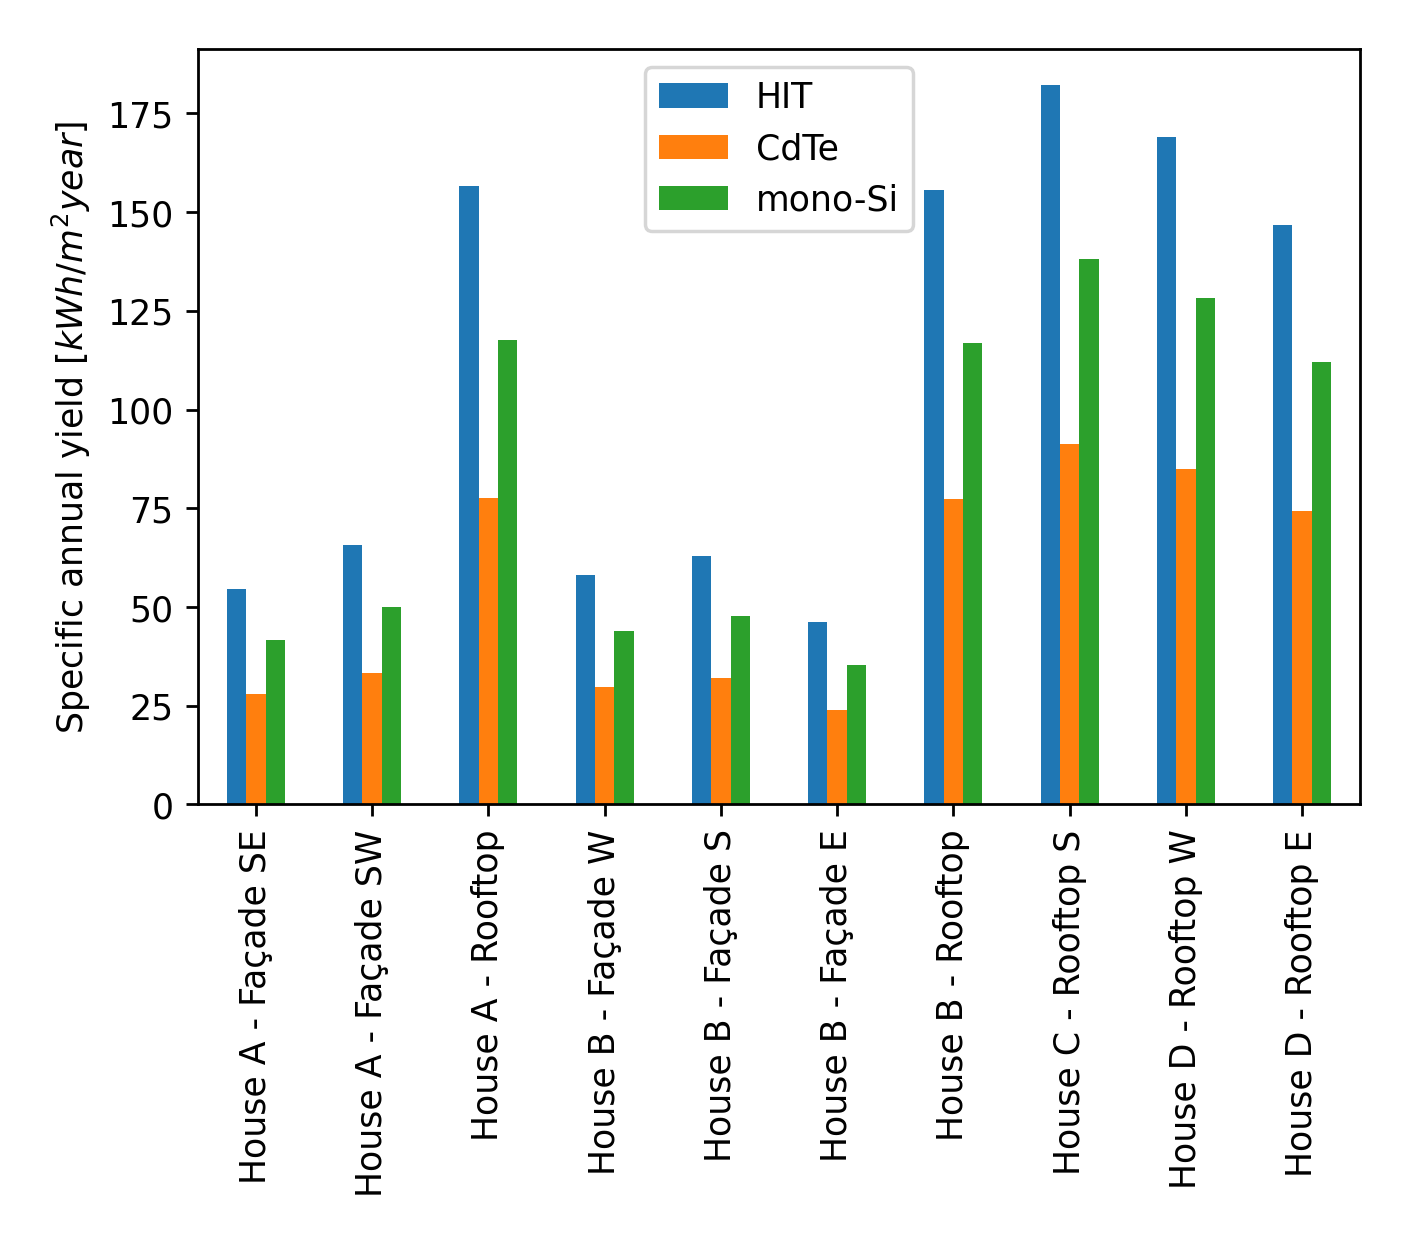
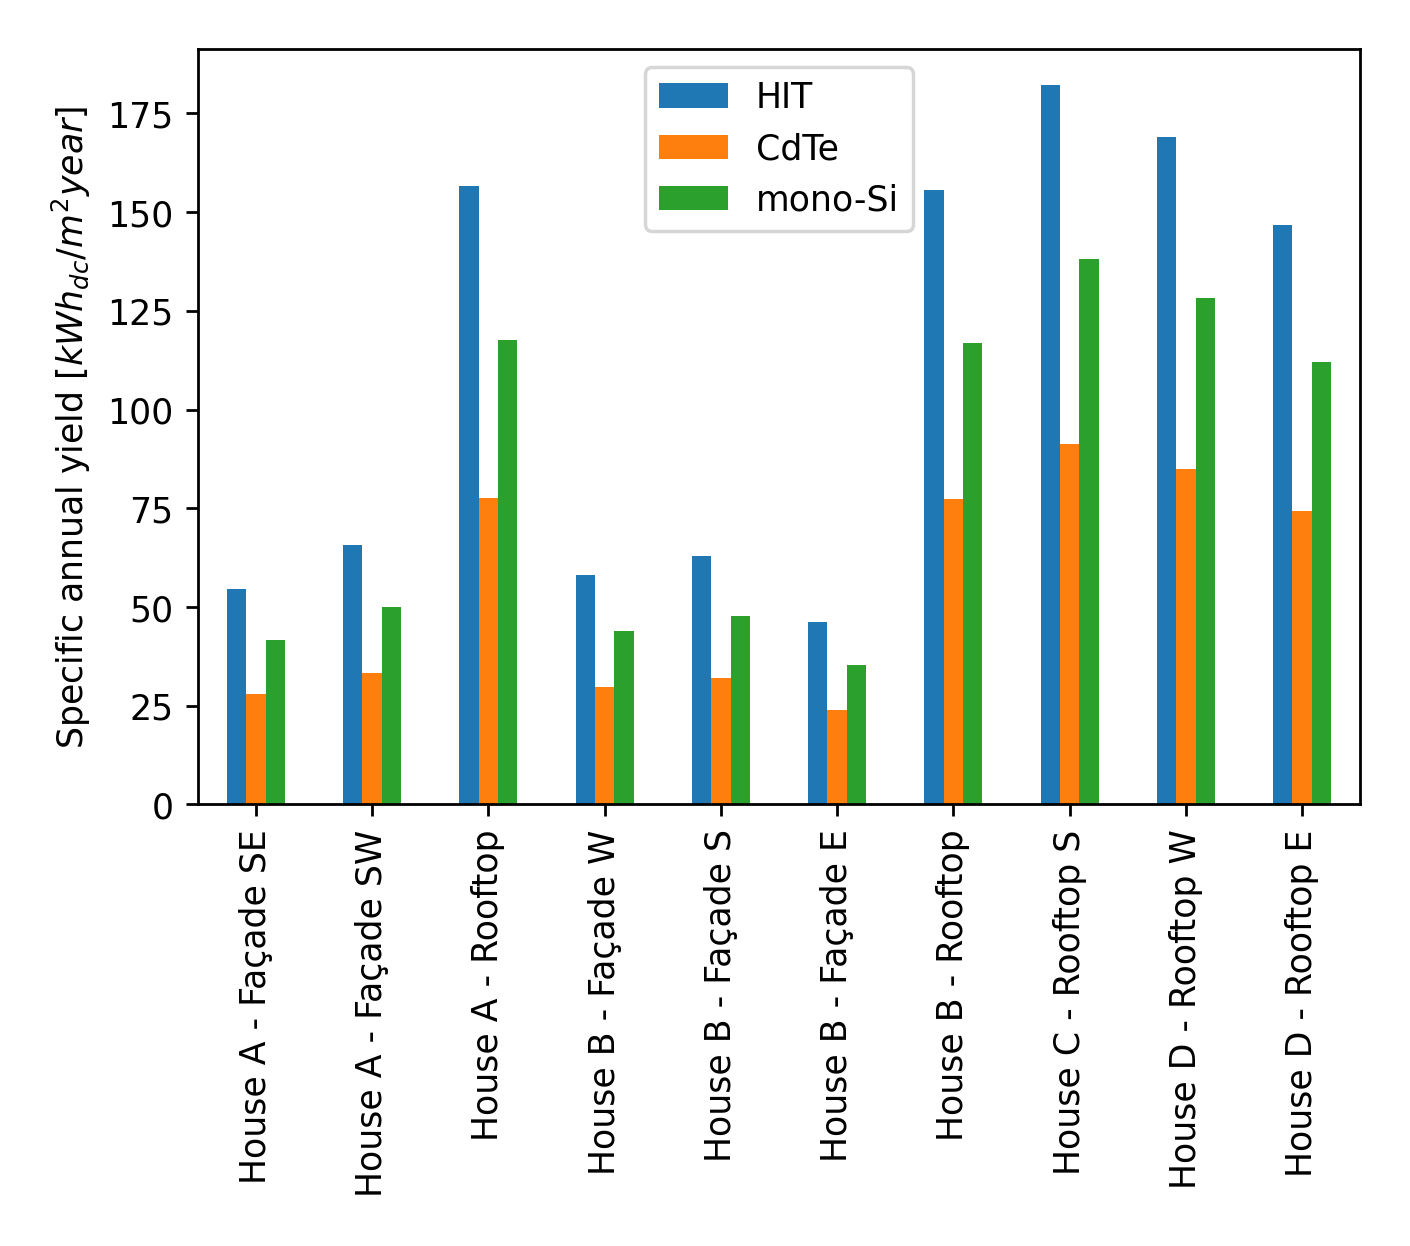
Create a bar chart for the total annual AC yield

Changed region(s): [[0.0312, 0.0915, 0.0624, 0.61]]

diff --git a/src/question3.py b/src/question3.py
@@ -96,8 +96,9 @@ calculate_possible_capacity()
 calculate_dc_power()
 
 # Create bar charts for the total and specific annual yield
-create_annual_yield_bar_chart('total_annual_yield_dc', filename='total_annual_yield_dc', ylabel='Total annual yield [$kWh / year$]')
-create_annual_yield_bar_chart('specific_annual_yield_dc', filename='specific_annual_yield_dc', ylabel='Specific annual yield [$kWh / m^2 year$]')
+create_annual_yield_bar_chart('total_annual_yield_dc', filename='total_annual_yield_dc', ylabel='Total annual yield [$kWh_{dc} / year$]')
+create_annual_yield_bar_chart('total_annual_yield_ac', filename='total_annual_yield_ac', ylabel='Total annual yield [$kWh_{ac} / year$]')
+create_annual_yield_bar_chart('specific_annual_yield_dc', filename='specific_annual_yield_dc', ylabel='Specific annual yield [$kWh_{dc} / m^2 year$]')
 create_table_pv_systems()
 
 # Save the buildings info in a new JSON file
